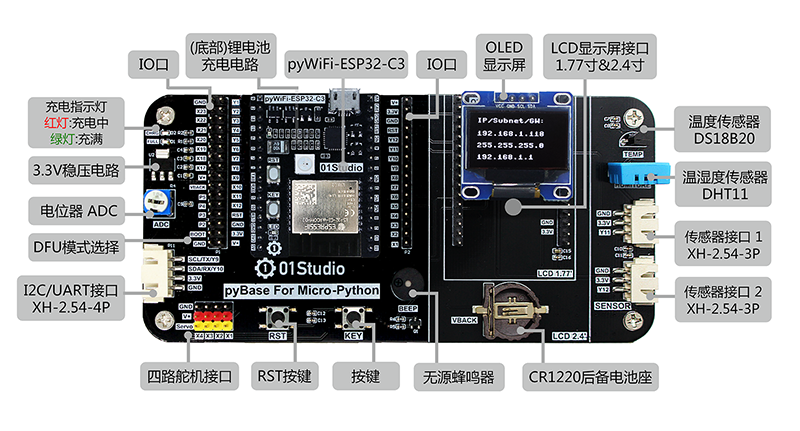
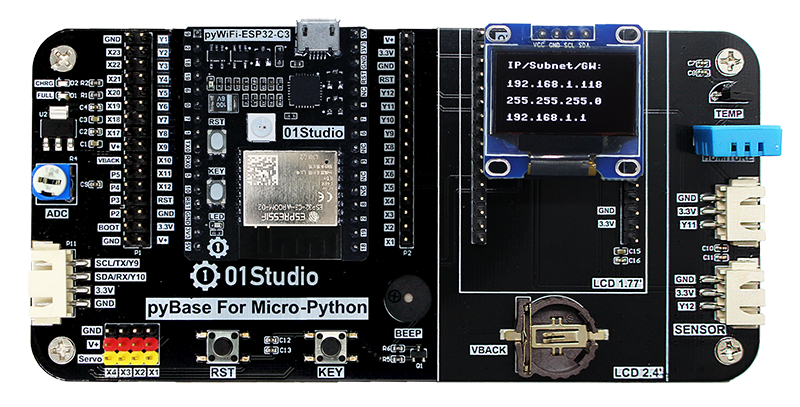
add pyWiFi-ESP32-S2

diff --git a/micropython/pyWiFi-ESP32-S2/pyWiFi-ESP32-S2.rst b/micropython/pyWiFi-ESP32-S2/pyWiFi-ESP32-S2.rst
@@ -1,0 +1,39 @@
+
+pyWiFi-ESP32-S2
+======================
+
+资料下载
+------------
+- 下载链接：https://pan.baidu.com/s/1ZvYfuDuSFPFnmDkeYIowHw
+- 提取码：01KJ 
+
+
+产品图片
+------------
+
+.. figure:: media/pyWiFi-ESP32-S2_kits.png
+
+  pyWiFi-ESP32-S2开发套件
+  
+.. figure:: media/pyWiFi-ESP32-S2.png
+   
+  pyWiFi-ESP32-S2
+
+
+购买链接
+------------
+- 01Studio官方淘宝店：https://01studio.taobao.com/
+
+
+产品答疑
+-------------
+- 社区论坛发帖提问：https://bbs.01studio.cc/ 
+- 技术支持邮箱：support@01studio.cc
+- 微信用户群：针对已购买开发板的用户提供技术支持，联系淘宝客服添加。
+
+
+关于01Studio
+--------------
+
+  | :ref:`公司简介 <about>`  
+  | :ref:`联系我们 <about>`

diff --git a/index.rst b/index.rst
@@ -20,6 +20,7 @@
    micropython/pyWiFi-ESP8266/pyWiFi-ESP8266
    micropython/pyWiFi-ESP32-C3/pyWiFi-ESP32-C3
    micropython/pyWiFi-ESP32/pyWiFi-ESP32
+   micropython/pyWiFi-ESP32-S2/pyWiFi-ESP32-S2
    micropython/pyBLE-NRF52840/pyBLE-NRF52840
    micropython/pyAI-OpenMV4/pyAI-OpenMV4
    micropython/pyAI-K210/pyAI-K210  
